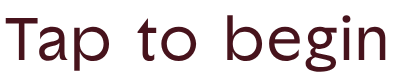
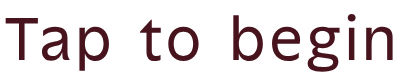
Switch Tap to begin back to PP Palma Light
Claude-Session: https://claude.ai/code/session_01M84a3FKwMRkSZpHB3s8xrt

diff --git a/index.html b/index.html
@@ -170,7 +170,7 @@ h1{font-size:2.5rem}h2{font-size:1.9rem}.slide h3{font-size:1.6rem;margin-top:14
     <video id="introvid" src="assets/landing-full.mp4" poster="assets/poster.jpg" muted playsinline webkit-playsinline preload="auto" aria-hidden="true"></video>
     <img class="panel" src="assets/title.jpg" alt="The Nail Book">
     <video id="loopvid" class="loop" src="assets/wobble.mp4" muted playsinline webkit-playsinline loop preload="auto" aria-hidden="true"></video>
-    <button class="go" type="button"><img src="assets/tapbegin.png" alt="Tap to begin" width="100" height="20" style="display:block;width:100px;height:auto"></button>
+    <button class="go" type="button"><img src="assets/tapbegin.png" alt="Tap to begin" width="102" height="20" style="display:block;width:102px;height:auto"></button>
   </div>
 </div>
 <style>
